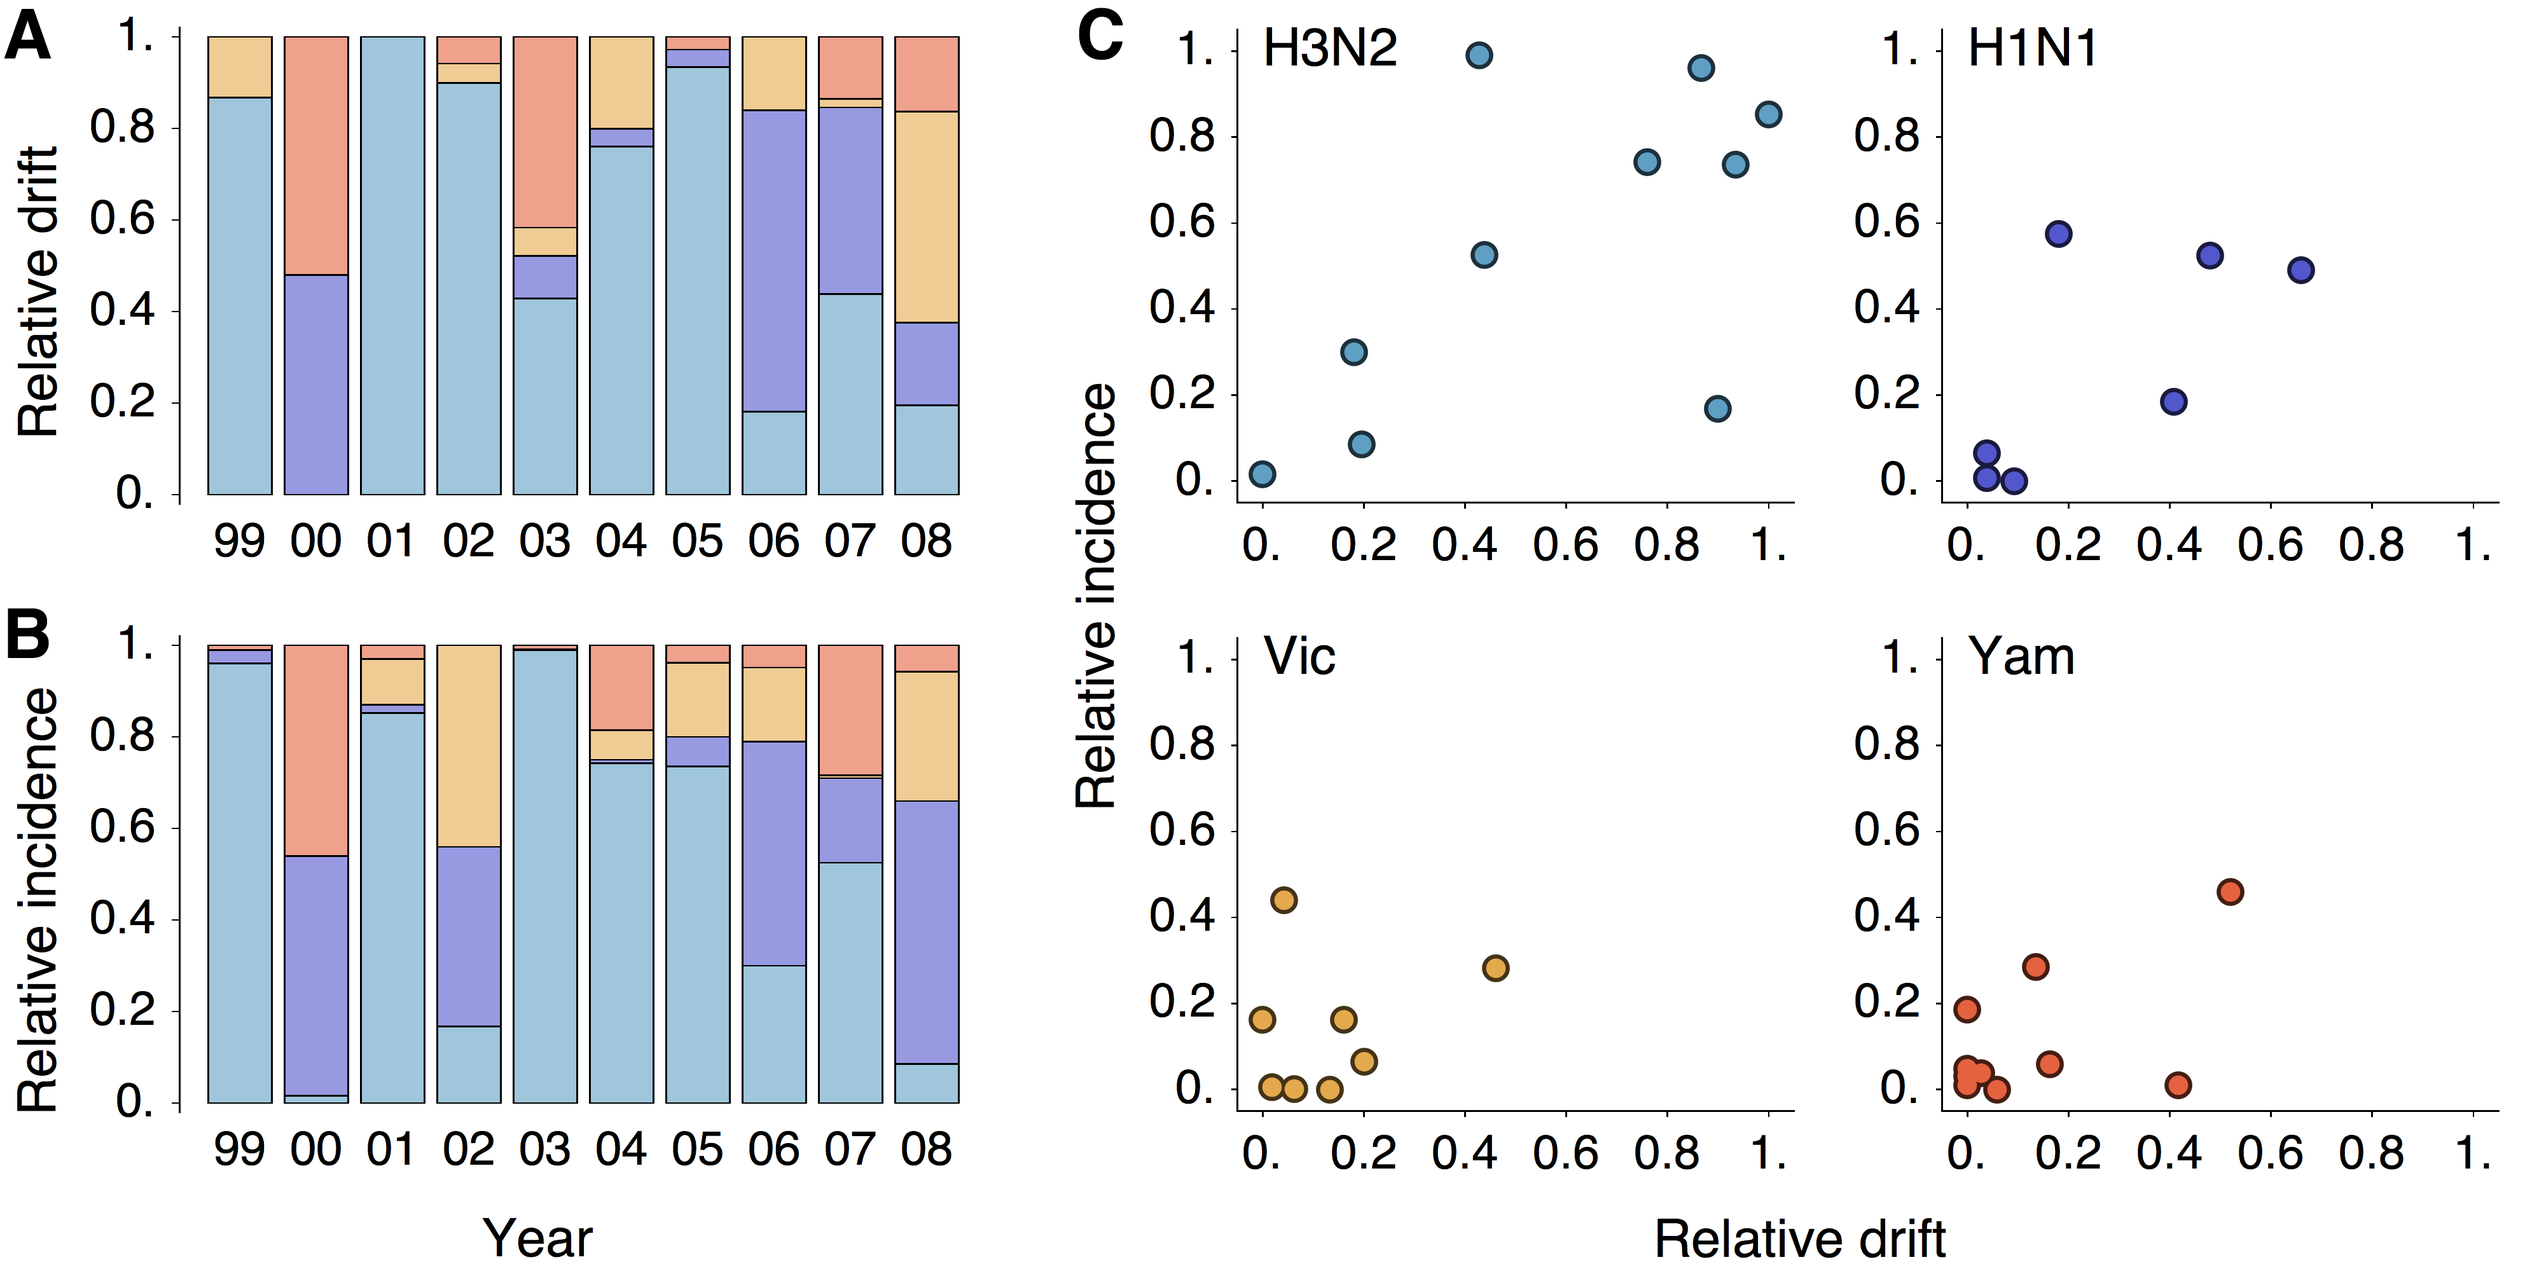
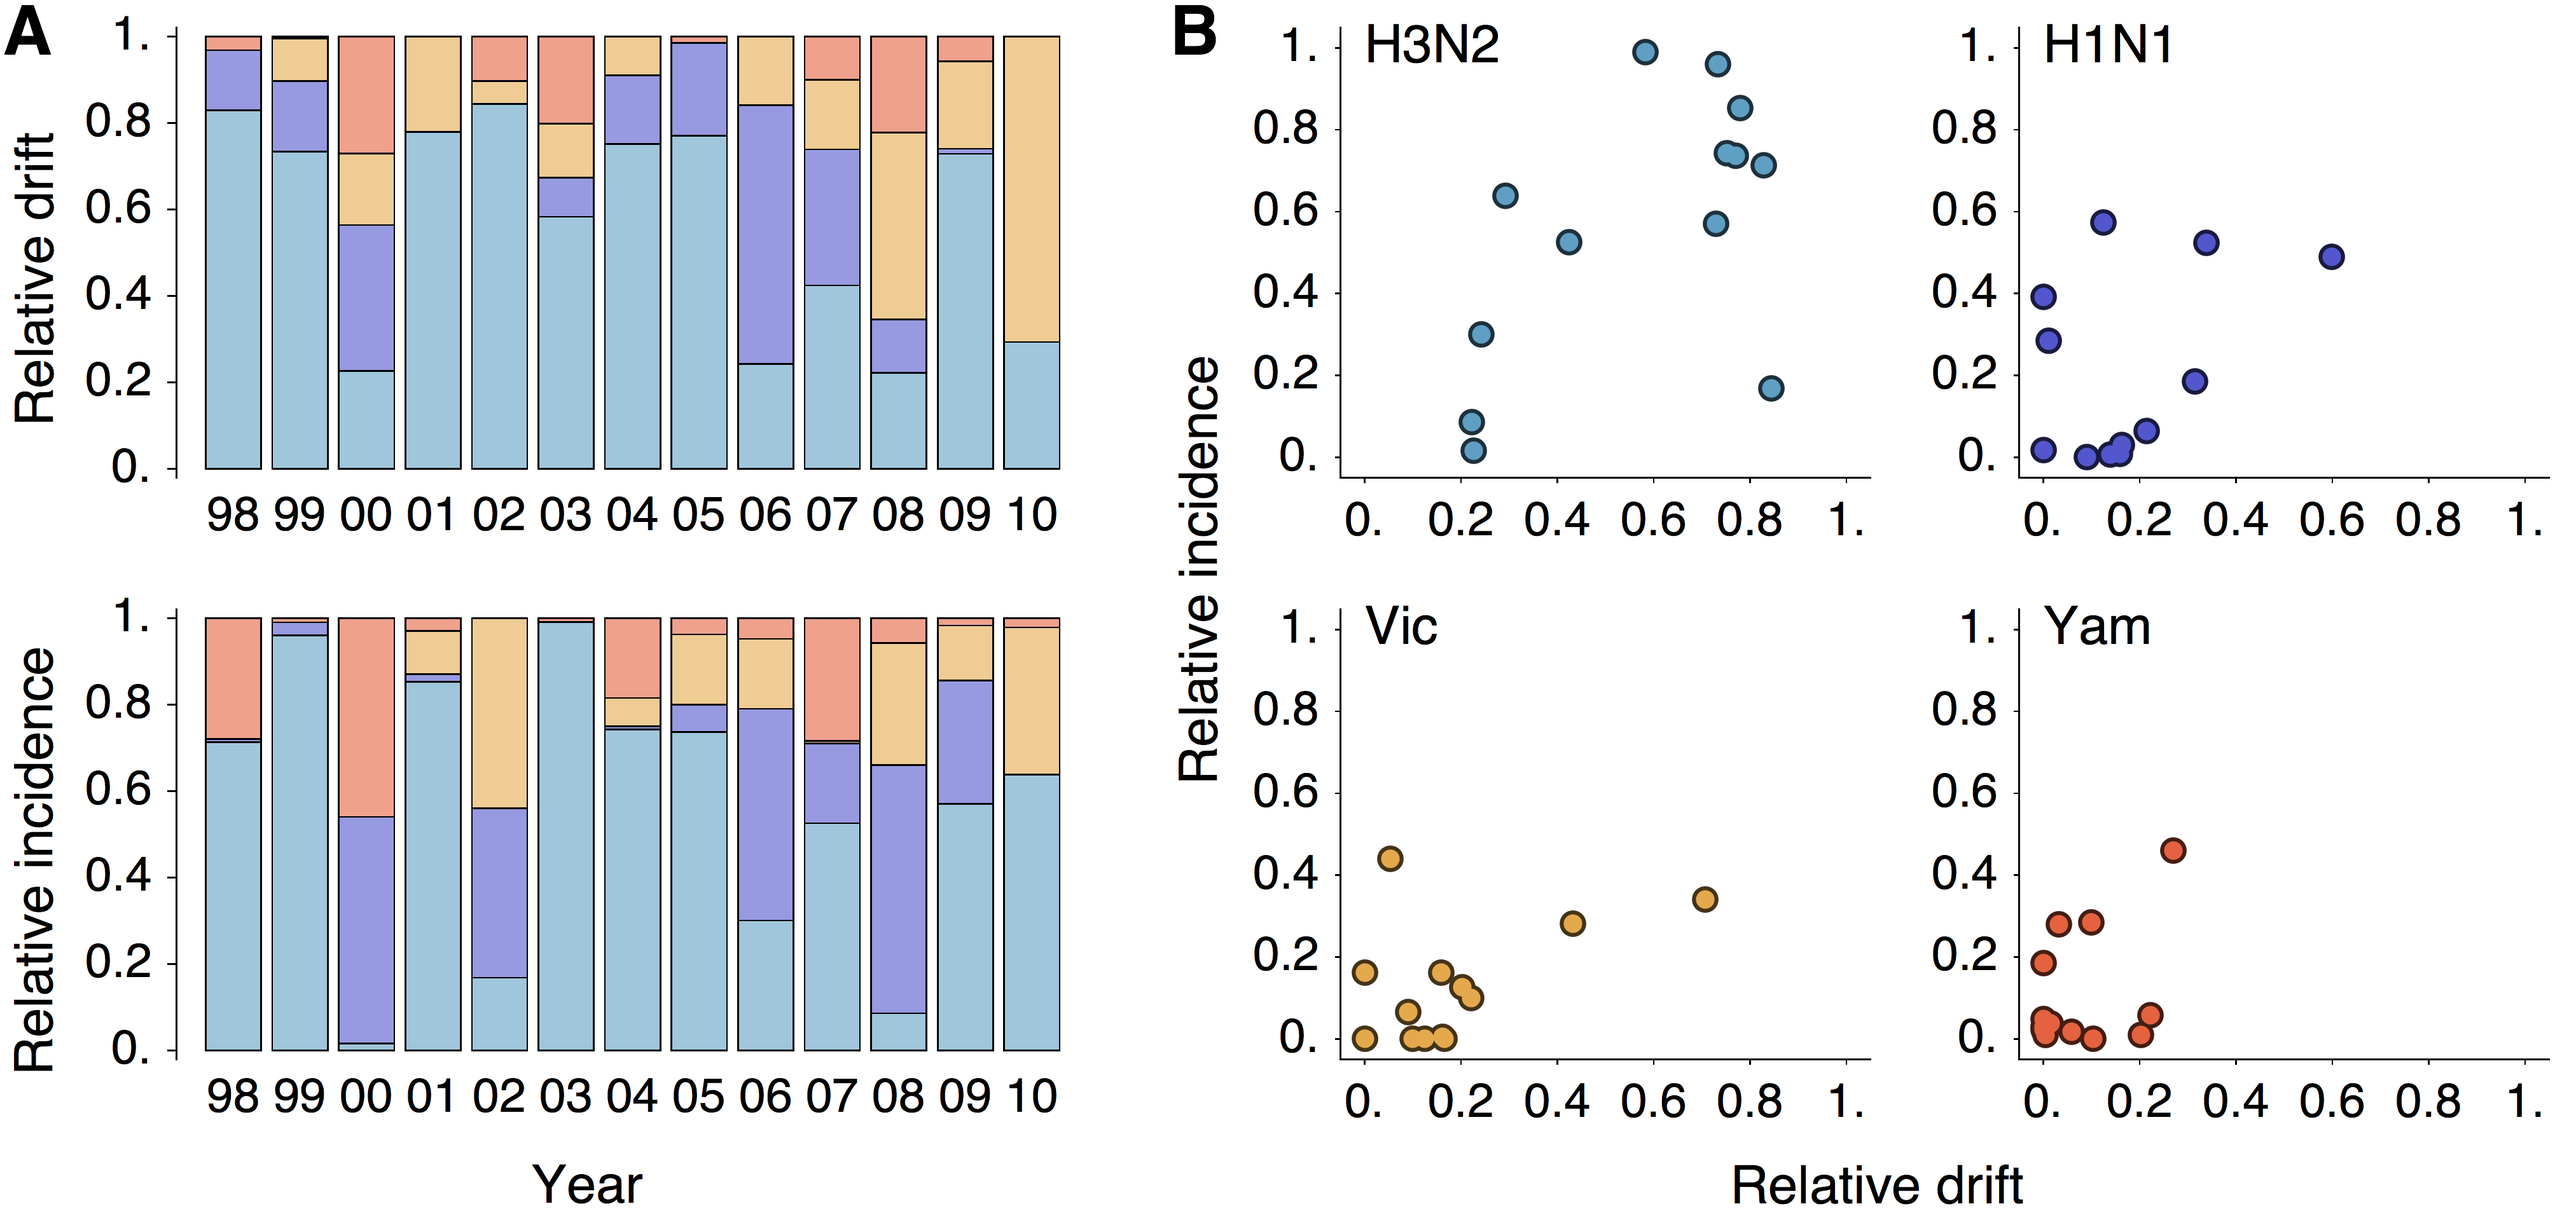
Rerevise numbers for year-to-year antigenic drift.
I did not like the holes in the dataset that previously existed because
H1 and B had years with no virus isolations.  Here, I've sliced the tree
at each year and taken the mean location on dimension 1 of these slices.
This also allowed me to take the surveillance data back to 1998.

diff --git a/flux.tex b/flux.tex
@@ -186,7 +186,7 @@ This analysis makes the fate of antigenic clusters obvious, with two clusters in
 %%% map %%%
 \begin{figure}[h]
 	\centering		
-	\includegraphics[width=0.85\textwidth]{figures/map}
+	\includegraphics[width=0.95\textwidth]{figures/map}
 	\caption{\textbf{Antigenic locations of A/H3N2, A/H1N1, B/Vic and B/Yam viruses showing evolutionary relationships between virus samples.} 
 	Circles represent a posterior sample of virus locations and have been colored based on year of isolation in 4-year intervals.
 	Antigenic units represent two-fold dilutions of the HI assay.
@@ -209,7 +209,7 @@ Most variation is contained within the first antigenic dimension, but dimension 
 %%% drift %%%
 \begin{figure}[h]
 	\centering		
-	\includegraphics[width=0.65\textwidth]{figures/drift}
+	\includegraphics[width=0.75\textwidth]{figures/drift}
 	\caption{\textbf{Antigenic drift of A/H3N2, A/H1N1, B/Vic and B/Yam viruses showing evolutionary relationships between virus samples.} 
 	Antigenic drift is shown in terms of change of location in the first antigenic dimension through time.
 	Circles represent a posterior sample of virus locations and have been colored based on year of isolation in 4-year intervals.
@@ -228,35 +228,39 @@ The eventual fate of this lineage has yet to be determined.
 Influenza B/Yamagata evolved slower still, with an average rate of and 0.21 (HPD 0.10--0.28) units per year.
 Very little punctuated evolution is apparent in the evolution of B/Yam.
 
-Interestingly, although antigenic clusters seem to emerge in a punctuated fashion in influenza A/H3N2, year-to-year antigenic drift remains relatively constant through time (Figure~\ref{jumps}).
-For example, the largest cluster transition we observe is the emergence of the Sydney/97 cluster in 1997, evident as a large gap in virus locations along dimension 1 in Figure~\ref{drift}.
+Interestingly, although antigenic clusters seem to emerge in a punctuated fashion in influenza A/H3N2, year-to-year antigenic drift relatively constant through time with most years exhibiting an intermediate level of drift (Figure~\ref{jumps}).
+We calculate year-to-year antigenic drift for years 1992 to 2011 by calculating the average location along dimension 1 of phylogenetic lineages present at year $i$ and comparing this location to the average location of phylogenetic lineages present at year $i-1$.
+For A/H3N2, the largest cluster transition we observe is the emergence of the Sydney/97 cluster in 1997, evident as a large gap in virus locations along dimension 1 in Figure~\ref{drift}.
 However, in 1997 only three of the nine viruses sampled show the Sydney/97 phenotype, while the remaining six viruses exhibit the old Wuhan/95 phenotype.
 In 1998, three of the four viruses sampled show the Sydney/97 phenotype, with the remaining virus still showing the Wuhan/95 phenotype.
-In 1999, the transition is complete.
+In 1999, all sampled viruses exhibit the Sydney/97 phenotype.
 Thus, we observe nearly equal rates of year-to-year antigenic drift in mean phenotype in going from 1996 to 1997, from 1997 to 1998 and from 1998 to 1999, rather than an immediate jump in mean antigenic phenotype in 1997 (Figure~\ref{jumps}).
-A similar pattern is evident in the Fujian/02 transition (Figure~\ref{jumps}).
-Although A/H3N2 shows significantly greater mean rates of drift than A/H1N1 and influenza B, year-to-year variation in antigenic drift is fairly similar across influenza clades.
-We find that the standard deviation across years in year-to-year drift is 0.74 antigenic units for A/H3N2, 0.56 units for A/H1N1, 0.72 units for B/Vic and 0.38 units for B/Yam.
+However, once the transition is completed in 1999, year-to-year antigenic drift drops, showing very low values in 2000 and 2001 before the Fujian/02 variant emerges.
+In addition to showing greater overall rates of antigenic drift, A/H3N2 shows greater variation in year-to-year drift than seen in A/H1N1 or influenza B (Figure~\ref{jumps}).
+We find that the standard deviation in year-to-year drift is 0.80 antigenic units for A/H3N2, 0.38 units for A/H1N1, 0.44 units for B/Vic and 0.19 units for B/Yam.
 
 %%% jumps %%%
 \begin{figure}[h]
 	\centering		
-	\includegraphics[width=0.5\textwidth]{figures/jumps}
-	\caption{\textbf{Year-to-year antigenic drift of A/H3N2, A/H1N1, B/Vic and B/Yam viruses.} 
-	Year-to-year antigenic drift for a virus clade for year $i$ is measured as the mean of antigenic dimension 1 of viruses collected in year $i$ compared to the mean of antigenic dimension 1 of viruses collected during the previous year $i-1$.
-	Bars represent interquartile range across MCMC samples.
+	\includegraphics[width=0.85\textwidth]{figures/jumps}
+	\caption{\textbf{Year-to-year antigenic drift between 1992 and 2011 of A/H3N2, A/H1N1, B/Vic and B/Yam viruses.} 
+	(A) Histograms of year-to-year antigenic drift across influenza clades.
+	(B) Timeseries of year-to-year antigenic drift across influenza clades from 1992 to 2011.
+	Year-to-year antigenic drift for a virus clade for year $i$ is measured as the mean of antigenic dimension 1 of phylogenetic lineages in year $i$ compared to the mean of antigenic dimension 1 of phylogenetic lineages from the previous year $i-1$.
+	For example, 2000 signifies difference in antigenic dimension 1 between 1999 and 2000.
 	} 
 	\label{jumps} 
 \end{figure}
 
 \subsection*{Epidemiological consequences of antigenic drift}
 
-We investigated the relative rates of antigenic evolution in A/H3N2, A/H1N1, B/Vic and B/Yam from 1999 to 2008, finding a general correspondence between antigenic drift in dimension 1 and relative incidence within each influenza clade (Figure~\ref{incidence}).
-To rule out effects caused by the 2009 pandemic, incidence data were examined only until 2008.
-From 1999 to 2008, A/H3N2 accounted for the majority of antigenic drift (51\%), while A/H1N1, B/Vic and B/Yam split the remainder, accounting for 22\%, 15\% and 13\%, respectively.
-Similarly, A/H3N2 was responsible for the majority of incidence (54\%) in the USA during this time period.
-Influenza A/H1N1 accounted for 23\% of incidence, B/Vic accounted for 12\% of incidence and B/Yam accounted for 11\% of incidence.
-These proportions are significantly similar to one another (randomization test, $p = 0.001$).
+We investigated the relative rates of antigenic evolution in A/H3N2, A/H1N1, B/Vic and B/Yam from 1998 to 2010, finding a general correspondence between antigenic drift in dimension 1 and relative incidence within each influenza clade (Figure~\ref{incidence}).
+Here, we take the measurements of year-to-year antigenic drift from the preceding section (Figure~\ref{jumps}) and calculate the relative contribution to total antigenic drift for each clade in each year.
+We compare these measurements of relative antigenic drift to relative isolations of viruses form each clade in the USA from 1998 to 2011 (see Methods).
+From 1998 to 2010, A/H3N2 accounted for the majority of antigenic drift (56\%), while A/H1N1, B/Vic and B/Yam split the remainder, accounting for 15\%, 21\% and 7\%, respectively.
+Similarly, A/H3N2 was responsible for the majority of incidence (56\%) during this time period.
+Influenza A/H1N1 accounted for 20\% of incidence, B/Vic accounted for 13\% of incidence and B/Yam accounted for 11\% of incidence.
+These proportions are significantly similar to one another (randomization test, $p = 0.011$).
 
 %%% incidence %%%
 \begin{figure}[tb]
@@ -265,24 +269,23 @@ These proportions are significantly similar to one another (randomization test, 
 	\caption{\textbf{Relative antigenic drift and relative incidence of A/H3N2, A/H1N1, B/Vic and B/Yam from 1999 to 2008.} 
 	(A) Relative antigenic drift of influenza clades.
 	Relative antigenic drift for A/H3N2 is measured as the drift of A/H3N2 viruses divided by the sum of drift for A/H3N2, A/H1N1, B/Vic and B/Yam.
-	Drift for a virus clade for year $i$ is measured as the mean of antigenic dimension 1 of viruses collected in year $i$ compared to the mean of antigenic dimension 1 of viruses collected during the previous year $i-1$.
-	For example, `99' signifies difference in antigenic dimension 1 between 1998 and 1999.
+	For example, `00' signifies difference in antigenic dimension 1 between 1999 and 2000.
 	Years with negative absolute drift were assigned a relative antigenic drift of 0.
 	(B) Relative incidence of influenza clades determined through relative isolation counts in the USA for winter influenza seasons.
 	Here, `99' refers to the 1999/2000 influenza season.
 	(C) Correlation of relative antigenic drift and relative incidence in each influenza clade.
 	Scatterplots represent drift from year $i-1$ to year $i$ compared to incidence in winter season beginning in year $i$, e.g. drift from 1998 to 1999 compared to incidence in the 1999/2000 influenza season.
-	Years lacking antigenic information (Figure~\ref{jumps}) were not included in the correlation.
 	} 
 	\label{incidence} 
 \end{figure}
 
 Additionally, year-to-year comparisons show a similar pattern (Figure~\ref{incidence}). 
 Here, we define antigenic drift from year $i-1$ to year $i$ as the difference between the average location in dimension 1 of viruses sampled in year $i-1$ and the average location in dimension 1 of viruses sampled in year $i$.
-For instance, we see that 97\% of the antigenic drift between 1998 and 1999 is attributable to A/H3N2 and subsequently the 1999-2000 winter influenza season is dominated by A/H3N2.
-Similarly, between 1999 and 2000, most antigenic drift is attributable to A/H1N1 and B/Yam, and the 2000-2001 season is dominated by these same two clades.
-Here, we find an overall correlation between clade-specific relative antigenic drift and clade-specific incidence of $r = 0.74$ (Pearson correlation, $p = 2.43 \times 10^{-7}$).
-Correlation is present to greater of lesser degrees for each of the four clades, with $r_\mathrm{H3} = 0.61$, $r_\mathrm{H1} = 0.68$, $r_\mathrm{Vic} = 0.23$ and $r_\mathrm{Yam} = 0.56$.
+For example, we find that every year that A/H3N2 is responsible for the majority of antigenic drift (1998, 1998, 2001, 2002, 2003, 2004, 2005, 2009) shows A/H3N2 as dominating viral isolations.
+Additionally, the two strongest years of A/H1N1 drift (2000 and 2006) are dominated by A/H1N1 over A/H3N2.
+We find an overall correlation between clade-specific relative antigenic drift and clade-specific incidence of $r = 0.71$ (Pearson correlation, $p = 2.14 \times 10^{-9}$).
+Correlation is present to greater of lesser degrees for each of the four clades, with $r_\mathrm{H3} = 0.57$, $r_\mathrm{H1} = 0.38$, $r_\mathrm{Vic} = 0.46$ and $r_\mathrm{Yam} = 0.40$.
+Pandemic H1N1 is present in the incidence data in 2009 and afterwards, however, our estimates of relative incidence only include isolations of seasonal A/H3N2, A/H1N1, B/Vic and B/Yam.
 
 These findings clearly demonstrate the epidemiological importance of antigenic drift and show that incidence of influenza clades A/H3N2, A/H1N1, B/Vic and B/Yam is strongly impacted by levels of antigenic drift within each clade.
 Furthermore, these findings suggest that the composition of a particular influenza season could be estimated ahead of time by examining the degree of antigenic drift between influenza clades.
